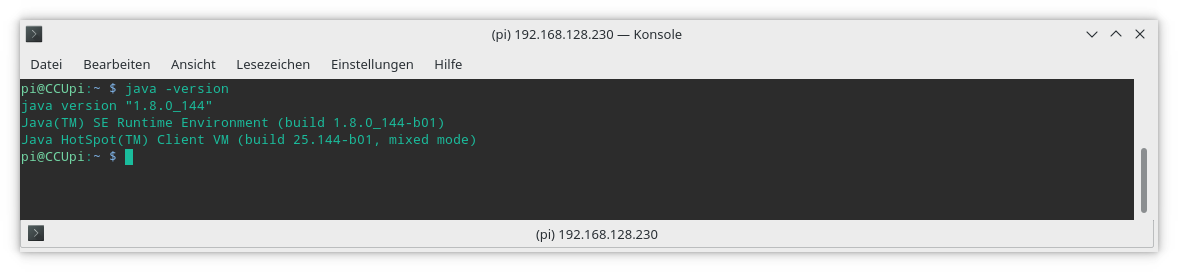
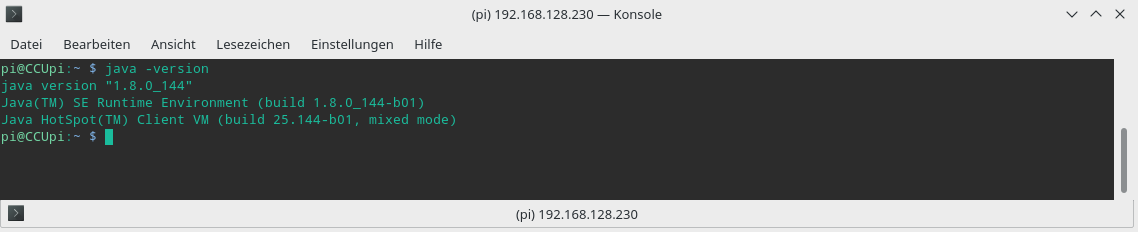
remove transparent border from Ausgabe_Java_Version.png and add LICENCE.md in Main directory

Changed region(s): [[0.0, 0.0, 1.0, 0.9957]]

diff --git a/LICENCE.md b/LICENCE.md
@@ -1,0 +1,5 @@
+## Lizenz
+ 
+Diese Dokumentation ist lizenziert unter einer [Creative Commons Namensnennung - Weitergabe unter gleichen Bedingungen (BY-SA) 4.0 International Lizenz](http://creativecommons.org/licenses/by-sa/4.0/deed.de).  
+
+![Lizenz: CC-BY-SA](images/CC_BY_SA_88x31.png "CC-BY-SA")
